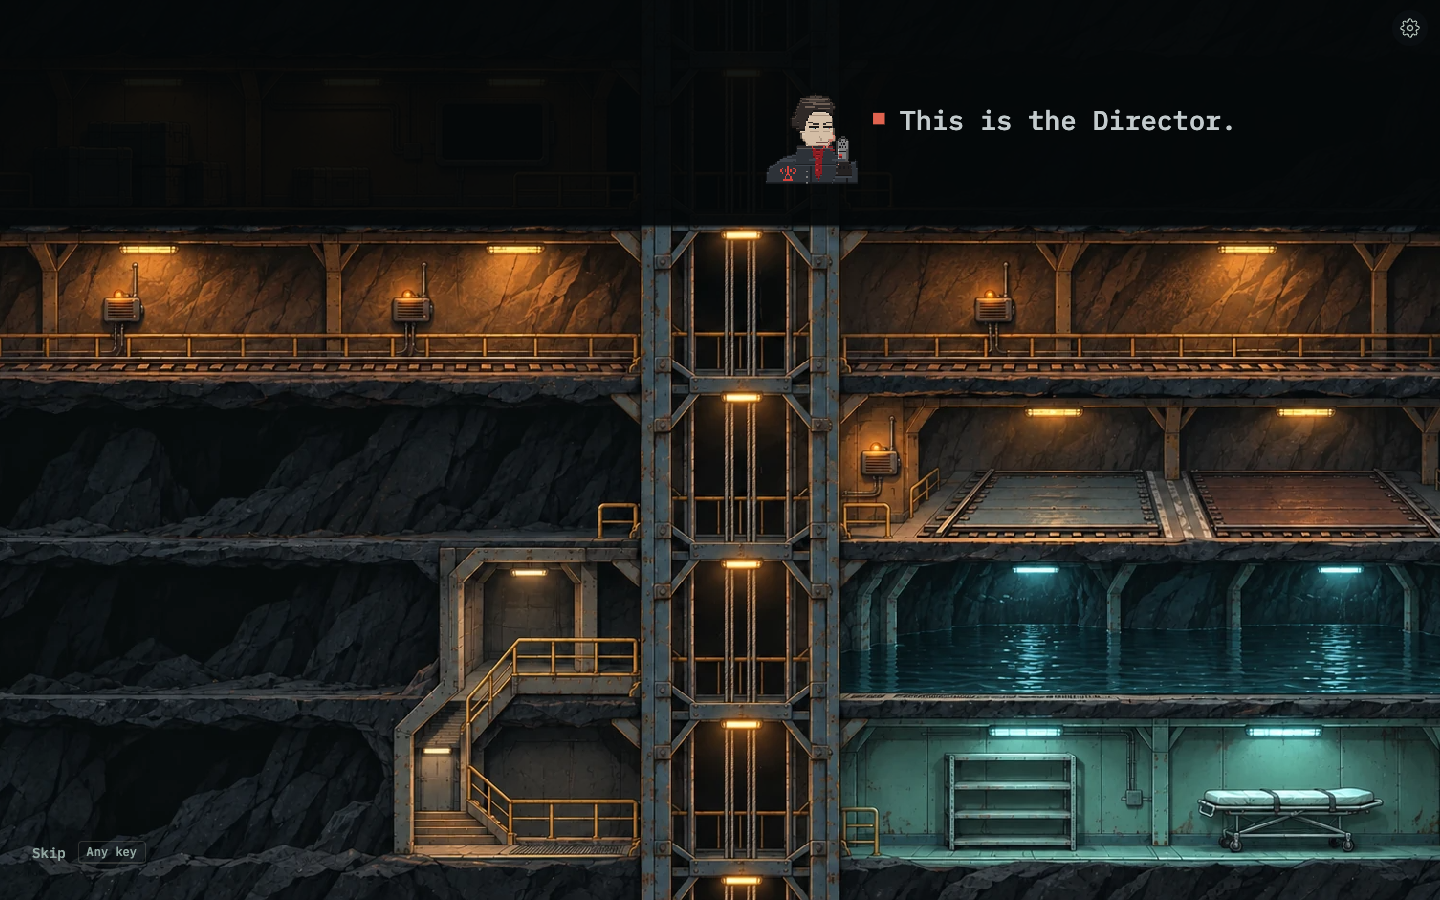
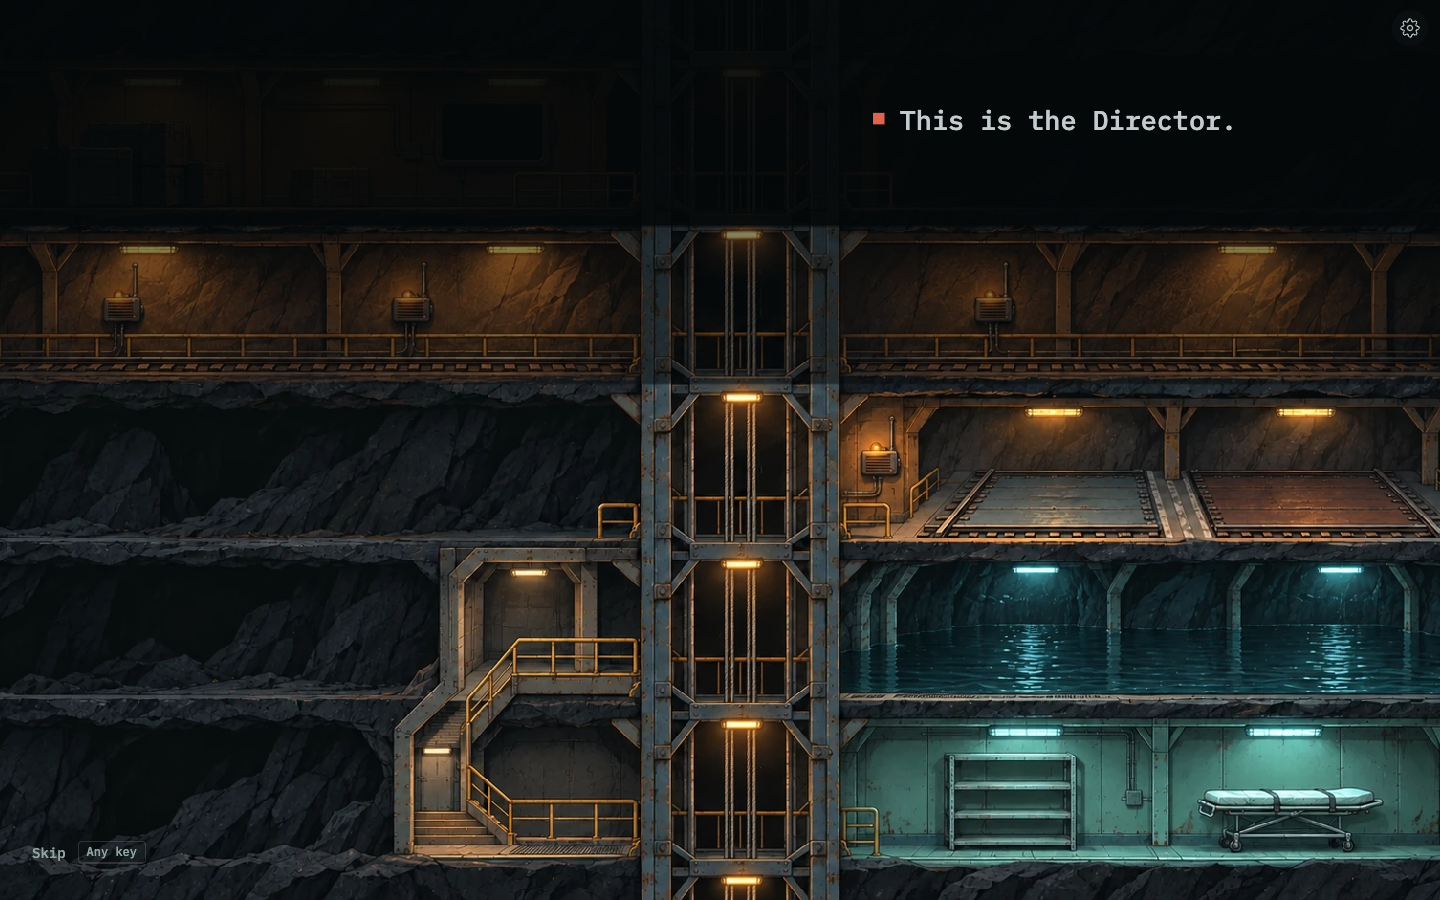
Premise intro: drop character portraits, restore v3 plea position

Changed region(s): [[0.0, 0.2489, 1.0, 0.4356], [0.5312, 0.0933, 0.5938, 0.2178]]

diff --git a/hollow-world/src/echo-view/journey/PremiseIntro.tsx b/hollow-world/src/echo-view/journey/PremiseIntro.tsx
@@ -1,6 +1,4 @@
 import { useEffect, useRef } from "react";
-import directorImg from "../characters/art/director-a-portrait-64x64.png";
-import maraPortrait from "../characters/art/mara-portrait-64x64.png";
 import maraSprite from "../cutaway/art/mara.png";
 import podImg from "../cutaway/art/med-1.webp";
 import {
@@ -79,13 +77,12 @@ export function PremiseIntro({ onTitle, onDone }: Props) {
       // 1 the Director: cut in, no fade; the PA clicks off all at once
       const on = (s: number) => (t >= s && t < PAOFF ? 1 : 0);
       op($("dirMark"), on(DIR[0]));
-      op($("dirFace"), on(DIR[0]));
       DIR.forEach((s, i) => op($("d" + (i + 1)), on(s)));
       // 2 Mara: the lamp first, then her words in radio phrases
       op($("mara"), fadeIn(t, LAMP + 200, 400) * (1 - fadeIn(t, POD0 - 50, 150)));
       const pleaOut = 1 - fadeIn(t, B3A, 400);
       const tag = fadeIn(t, PL[0] - 200, 300) * pleaOut;
-      op($("cord"), tag); op($("ptag"), tag); op($("maraFace"), tag);
+      op($("cord"), tag); op($("ptag"), tag);
       PL.forEach((s, i) => {
         const e = $("pl" + i), f = fadeIn(t, s, 240);
         op(e, f * pleaOut);
@@ -191,7 +188,6 @@ export function PremiseIntro({ onTitle, onDone }: Props) {
           </defs>
           {/* 1. the Director: one cold line per level, cut in as each level dies */}
           <g fill="#c3cbcd" fontSize="28" role="group" aria-label="Tower address from the Director">
-            <image data-k="dirFace" href={directorImg} x="884" y="96" width="96" height="96" />
             <rect data-k="dirMark" x="996" y="118" width="12" height="12" fill="#e0634f" />
             <text data-k="d1" x="1024" y="136">This is the Director.</text>
             <text data-k="d2" x="1024" y="320">All transit is suspended.</text>
@@ -206,13 +202,12 @@ export function PremiseIntro({ onTitle, onDone }: Props) {
             <text x="420" y="124" textAnchor="middle" fill="#d9c49c" fontSize="16">Mara</text>
           </g>
           <g fontSize="20" fill="#e9e0c8" role="group" aria-label="Radio message from level 1">
-            <line data-k="cord" x1="420" y1="224" x2="420" y2="336" stroke="#e9e0c8" strokeOpacity=".28" strokeWidth="1.5" />
-            <image data-k="maraFace" href={maraPortrait} x="372" y="340" width="96" height="96" />
-            <text data-k="ptag" x="420" y="460" fontSize="16" fill="#90a59f">Level 1, open channel</text>
-            <text data-k="pl0" x="420" y="496">Anyone on the relay?</text>
-            <text data-k="pl1" x="420" y="528">Nurse Mara and the medicine</text>
-            <text data-k="pl2" x="420" y="560">have to reach the Deep Clinic.</text>
-            <text data-k="pl3" x="420" y="592" fill="#edcd95">You have to help.</text>
+            <line data-k="cord" x1="420" y1="224" x2="420" y2="420" stroke="#e9e0c8" strokeOpacity=".28" strokeWidth="1.5" />
+            <text data-k="ptag" x="420" y="444" fontSize="16" fill="#90a59f">Level 1, open channel</text>
+            <text data-k="pl0" x="420" y="484">Anyone on the relay?</text>
+            <text data-k="pl1" x="420" y="516">Nurse Mara and the medicine</text>
+            <text data-k="pl2" x="420" y="548">have to reach the Deep Clinic.</text>
+            <text data-k="pl3" x="420" y="580" fill="#edcd95">You have to help.</text>
           </g>
           <g data-k="clinic"><circle cx="1150" cy="888" r="9" fill="#0a1013" stroke="#7ec8b3" strokeWidth="2" /><circle data-k="clinicFill" cx="1150" cy="888" r="6" fill="#7ec8b3" opacity="0" /><text x="1150" y="864" textAnchor="middle" fill="#b4c4ba" fontSize="16">Deep Clinic</text></g>
           <g data-k="beacons" />
